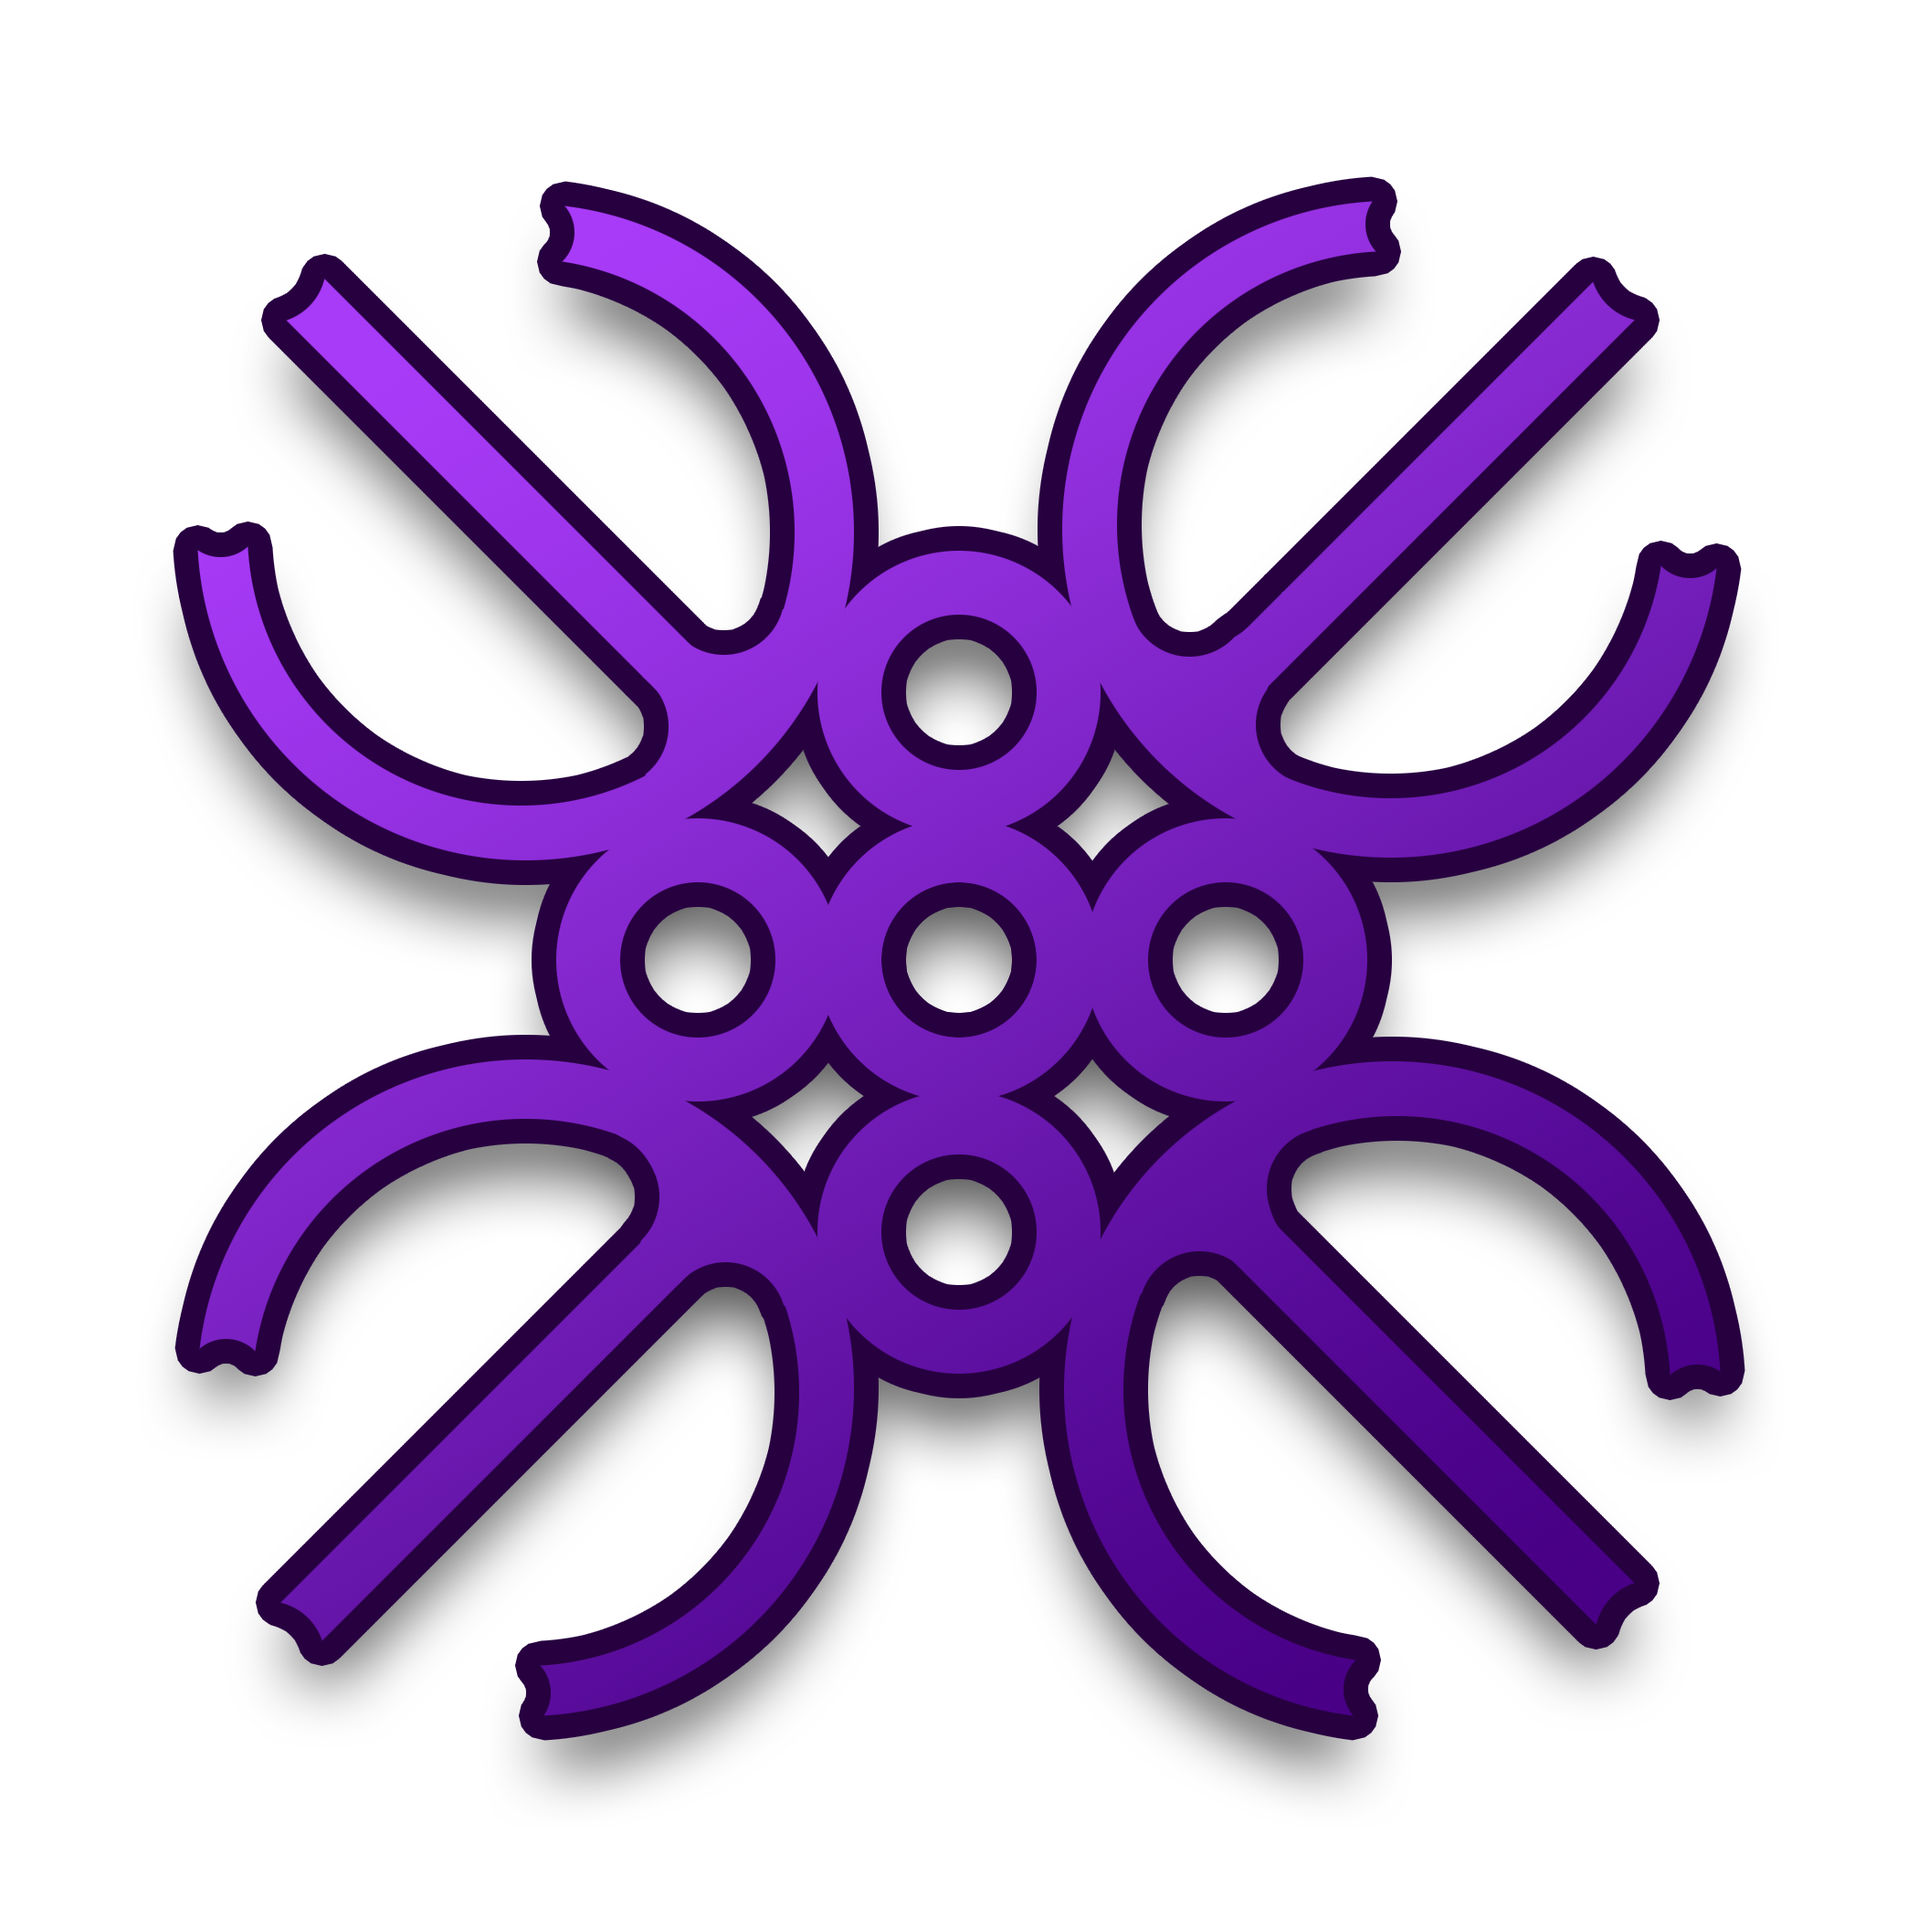
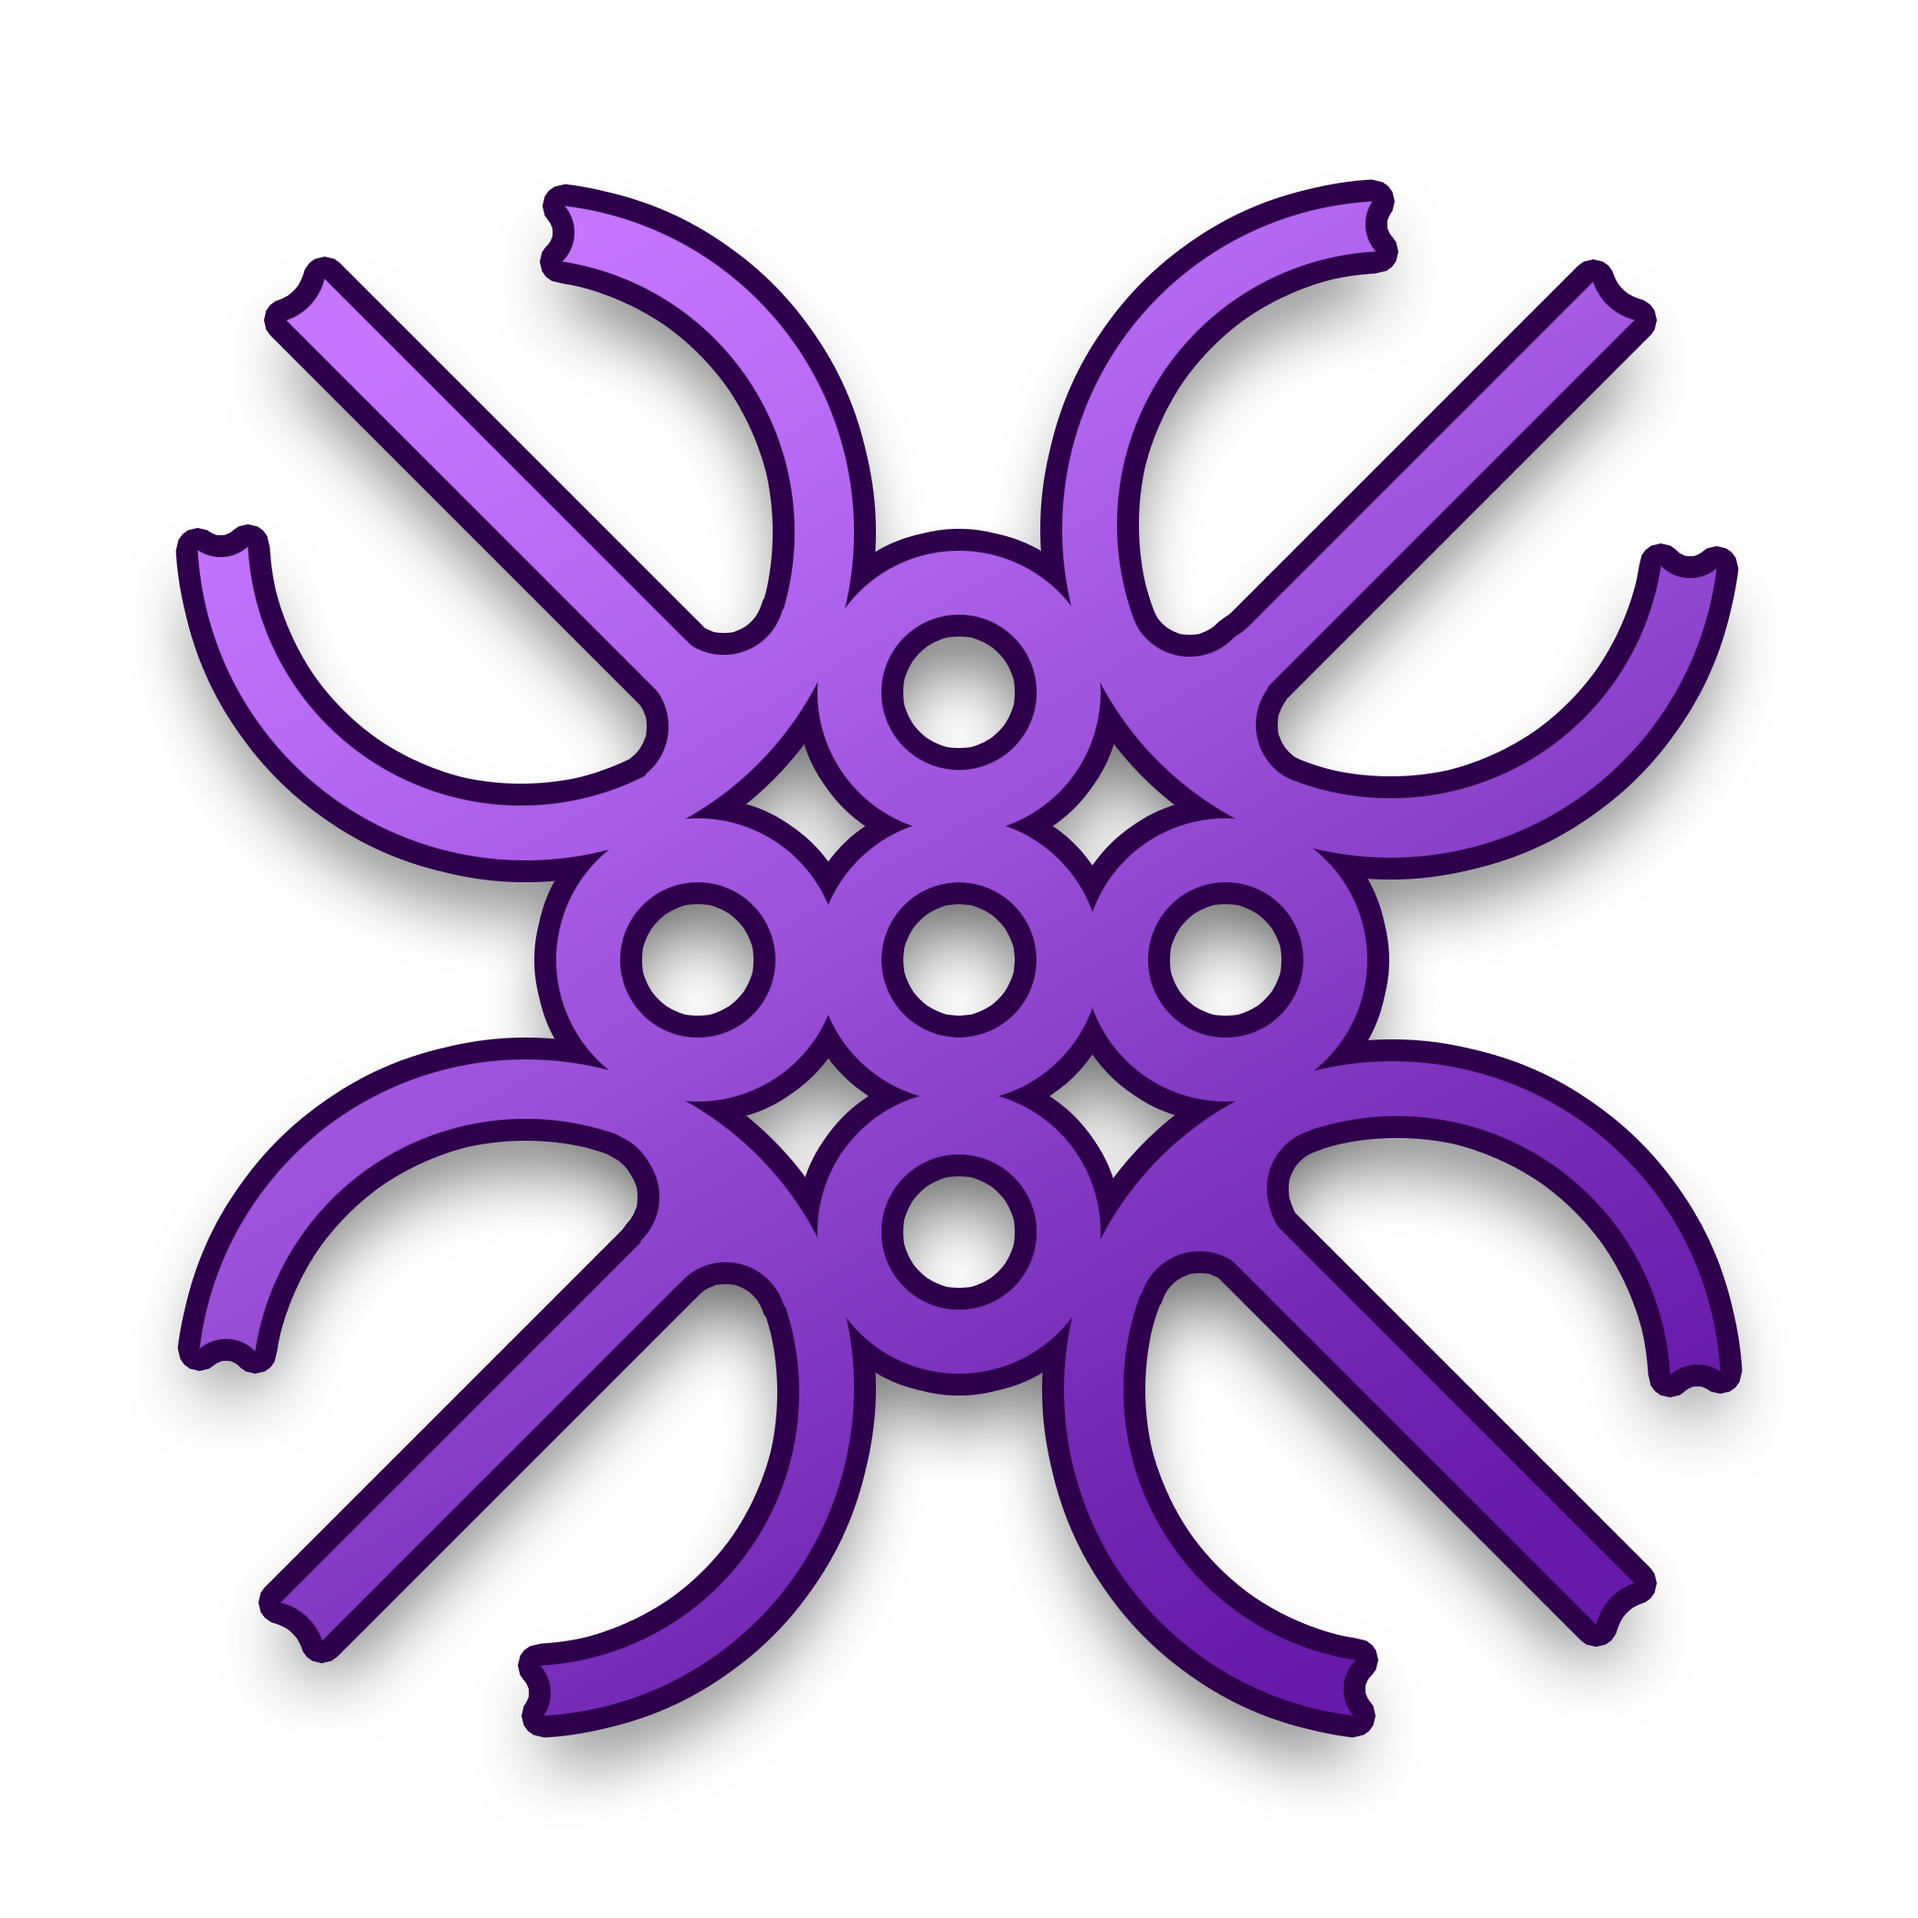
Add files via upload

Changed region(s): [[0.0929, 0.0929, 0.8976, 0.9286]]

diff --git a/product2.html b/product2.html
@@ -30,14 +30,16 @@
 </head>
 <body>
     <nav class="navbar">
-        <div class="navbar__container">
-            <div class="logo__container">
-                <a href="/" id="navbar__logo">
-                    <img src="images/SP1--TIME1.png" alt="LOGO" id="nav__logo">
-                </a>
-                <a href="archive.html" id="navbar__logo">
-                    <img src="images/OG.png" alt="LOGO" id="nav__logo">
-                </a>
+        <div class="navbar__background">
+            <div class="navbar__container">
+                <div class="logo__container">
+                    <a href="/" id="navbar__logo">
+                        <img src="images/OGSYMB2.png" alt="LOGO" id="nav__logo">
+                    </a>
+                    <a href="archive.html" id="navbar__logo">
+                        <img src="images/OGSYMB.png" alt="LOGO" id="nav__logo">
+                    </a>
+                </div>
             </div>
         </div>
     </nav>

diff --git a/digital1.html b/digital1.html
@@ -34,10 +34,10 @@
             <div class="navbar__container">
                 <div class="logo__container">
                     <a href="/" id="navbar__logo">
-                        <img src="images/SP1--TIME1.png" alt="LOGO" id="nav__logo">
+                        <img src="images/OGSYMB2.png" alt="LOGO" id="nav__logo">
                     </a>
                     <a href="archive.html" id="navbar__logo">
-                        <img src="images/OG.png" alt="LOGO" id="nav__logo">
+                        <img src="images/OGSYMB.png" alt="LOGO" id="nav__logo">
                     </a>
                 </div>
             </div>

diff --git a/digital10.html b/digital10.html
@@ -34,10 +34,10 @@
             <div class="navbar__container">
                 <div class="logo__container">
                     <a href="/" id="navbar__logo">
-                        <img src="images/SP1--TIME1.png" alt="LOGO" id="nav__logo">
+                        <img src="images/OGSYMB2.png" alt="LOGO" id="nav__logo">
                     </a>
                     <a href="archive.html" id="navbar__logo">
-                        <img src="images/OG.png" alt="LOGO" id="nav__logo">
+                        <img src="images/OGSYMB.png" alt="LOGO" id="nav__logo">
                     </a>
                 </div>
             </div>

diff --git a/digital11.html b/digital11.html
@@ -34,10 +34,10 @@
             <div class="navbar__container">
                 <div class="logo__container">
                     <a href="/" id="navbar__logo">
-                        <img src="images/SP1--TIME1.png" alt="LOGO" id="nav__logo">
+                        <img src="images/OGSYMB2.png" alt="LOGO" id="nav__logo">
                     </a>
                     <a href="archive.html" id="navbar__logo">
-                        <img src="images/OG.png" alt="LOGO" id="nav__logo">
+                        <img src="images/OGSYMB.png" alt="LOGO" id="nav__logo">
                     </a>
                 </div>
             </div>

diff --git a/digital2.html b/digital2.html
@@ -34,10 +34,10 @@
             <div class="navbar__container">
                 <div class="logo__container">
                     <a href="/" id="navbar__logo">
-                        <img src="images/SP1--TIME1.png" alt="LOGO" id="nav__logo">
+                        <img src="images/OGSYMB2.png" alt="LOGO" id="nav__logo">
                     </a>
                     <a href="archive.html" id="navbar__logo">
-                        <img src="images/OG.png" alt="LOGO" id="nav__logo">
+                        <img src="images/OGSYMB.png" alt="LOGO" id="nav__logo">
                     </a>
                 </div>
             </div>

diff --git a/digital3.html b/digital3.html
@@ -34,10 +34,10 @@
             <div class="navbar__container">
                 <div class="logo__container">
                     <a href="/" id="navbar__logo">
-                        <img src="images/SP1--TIME1.png" alt="LOGO" id="nav__logo">
+                        <img src="images/OGSYMB2.png" alt="LOGO" id="nav__logo">
                     </a>
                     <a href="archive.html" id="navbar__logo">
-                        <img src="images/OG.png" alt="LOGO" id="nav__logo">
+                        <img src="images/OGSYMB.png" alt="LOGO" id="nav__logo">
                     </a>
                 </div>
             </div>

diff --git a/digital4.html b/digital4.html
@@ -34,10 +34,10 @@
             <div class="navbar__container">
                 <div class="logo__container">
                     <a href="/" id="navbar__logo">
-                        <img src="images/SP1--TIME1.png" alt="LOGO" id="nav__logo">
+                        <img src="images/OGSYMB2.png" alt="LOGO" id="nav__logo">
                     </a>
                     <a href="archive.html" id="navbar__logo">
-                        <img src="images/OG.png" alt="LOGO" id="nav__logo">
+                        <img src="images/OGSYMB.png" alt="LOGO" id="nav__logo">
                     </a>
                 </div>
             </div>

diff --git a/digital5.html b/digital5.html
@@ -34,10 +34,10 @@
             <div class="navbar__container">
                 <div class="logo__container">
                     <a href="/" id="navbar__logo">
-                        <img src="images/SP1--TIME1.png" alt="LOGO" id="nav__logo">
+                        <img src="images/OGSYMB2.png" alt="LOGO" id="nav__logo">
                     </a>
                     <a href="archive.html" id="navbar__logo">
-                        <img src="images/OG.png" alt="LOGO" id="nav__logo">
+                        <img src="images/OGSYMB.png" alt="LOGO" id="nav__logo">
                     </a>
                 </div>
             </div>

diff --git a/digital6.html b/digital6.html
@@ -34,10 +34,10 @@
             <div class="navbar__container">
                 <div class="logo__container">
                     <a href="/" id="navbar__logo">
-                        <img src="images/SP1--TIME1.png" alt="LOGO" id="nav__logo">
+                        <img src="images/OGSYMB2.png" alt="LOGO" id="nav__logo">
                     </a>
                     <a href="archive.html" id="navbar__logo">
-                        <img src="images/OG.png" alt="LOGO" id="nav__logo">
+                        <img src="images/OGSYMB.png" alt="LOGO" id="nav__logo">
                     </a>
                 </div>
             </div>

diff --git a/digital7.html b/digital7.html
@@ -34,10 +34,10 @@
             <div class="navbar__container">
                 <div class="logo__container">
                     <a href="/" id="navbar__logo">
-                        <img src="images/SP1--TIME1.png" alt="LOGO" id="nav__logo">
+                        <img src="images/OGSYMB2.png" alt="LOGO" id="nav__logo">
                     </a>
                     <a href="archive.html" id="navbar__logo">
-                        <img src="images/OG.png" alt="LOGO" id="nav__logo">
+                        <img src="images/OGSYMB.png" alt="LOGO" id="nav__logo">
                     </a>
                 </div>
             </div>

diff --git a/digital8.html b/digital8.html
@@ -34,10 +34,10 @@
             <div class="navbar__container">
                 <div class="logo__container">
                     <a href="/" id="navbar__logo">
-                        <img src="images/SP1--TIME1.png" alt="LOGO" id="nav__logo">
+                        <img src="images/OGSYMB2.png" alt="LOGO" id="nav__logo">
                     </a>
                     <a href="archive.html" id="navbar__logo">
-                        <img src="images/OG.png" alt="LOGO" id="nav__logo">
+                        <img src="images/OGSYMB.png" alt="LOGO" id="nav__logo">
                     </a>
                 </div>
             </div>

diff --git a/digital9.html b/digital9.html
@@ -34,10 +34,10 @@
             <div class="navbar__container">
                 <div class="logo__container">
                     <a href="/" id="navbar__logo">
-                        <img src="images/SP1--TIME1.png" alt="LOGO" id="nav__logo">
+                        <img src="images/OGSYMB2.png" alt="LOGO" id="nav__logo">
                     </a>
                     <a href="archive.html" id="navbar__logo">
-                        <img src="images/OG.png" alt="LOGO" id="nav__logo">
+                        <img src="images/OGSYMB.png" alt="LOGO" id="nav__logo">
                     </a>
                 </div>
             </div>
